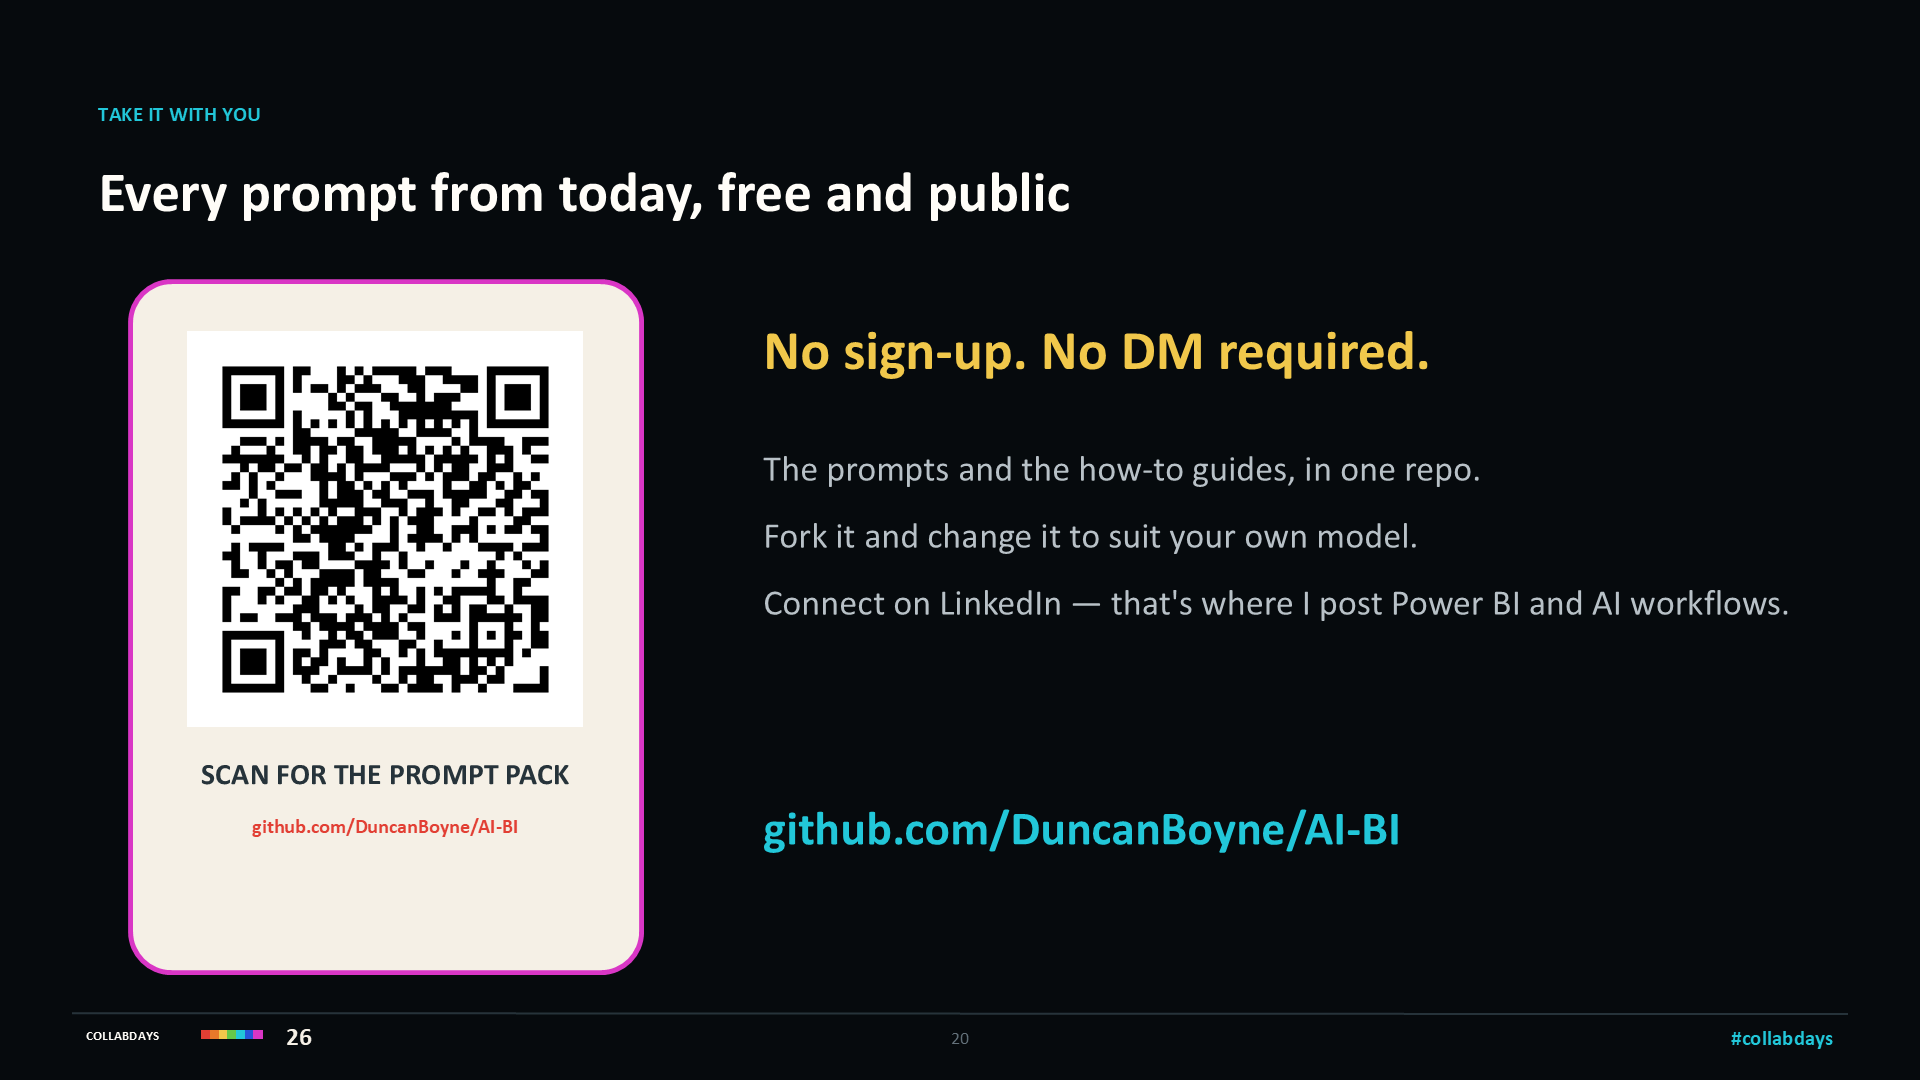
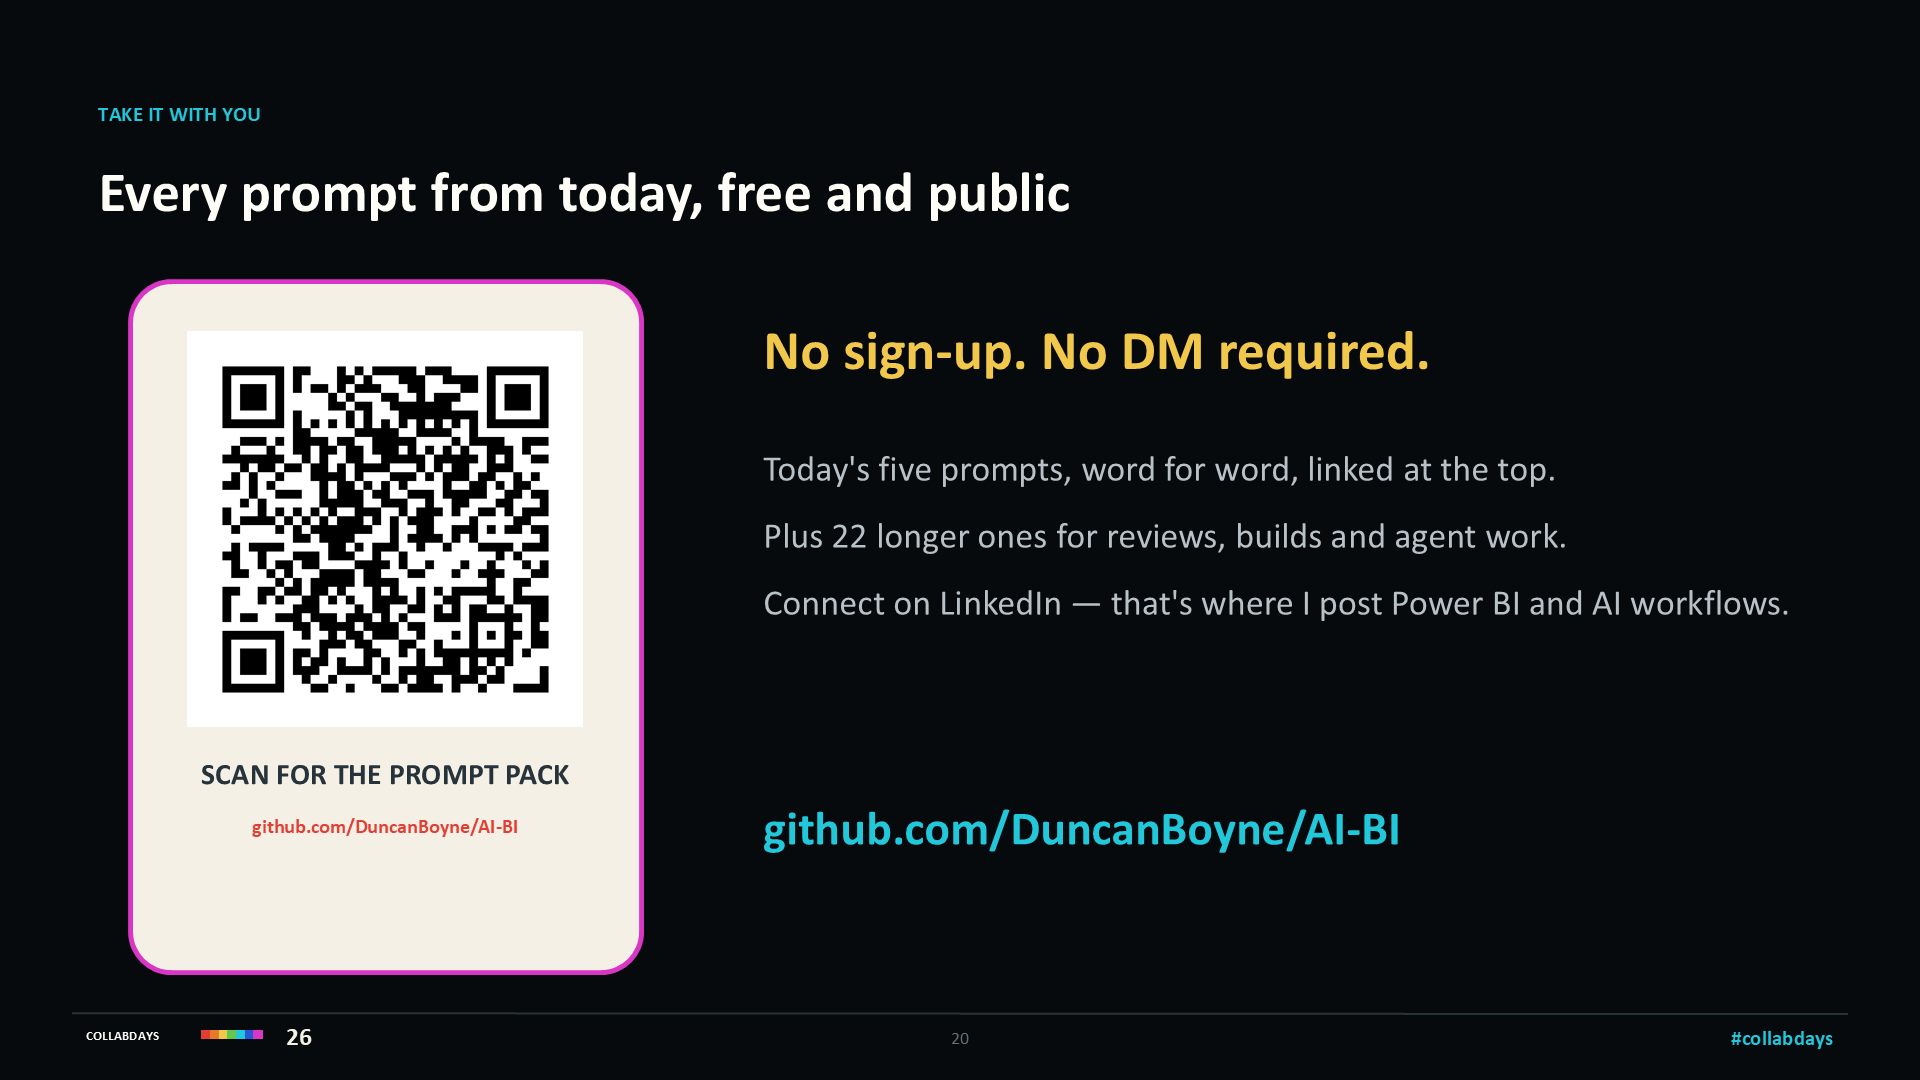
Point the CollabDays closing slide at the talk prompts in AI-BI
The slide promised every prompt from today; the five talk prompts now
live at the top of the AI-BI README, and the repo has 22 longer ones.

Changed region(s): [[0.4062, 0.4889, 0.8125, 0.5194], [0.4062, 0.4278, 0.8125, 0.4583]]

diff --git a/decks/collabdays-2026/slides.md b/decks/collabdays-2026/slides.md
@@ -134,7 +134,7 @@ Close the loop back to the reframe: none of it replaced judgement, all of it rem
 <!-- .slide: data-background-image="https://raw.githubusercontent.com/DuncanBoyne/speakingdecks/main/decks/collabdays-2026/slides/20.png" data-background-size="contain" data-background-color="#060A0D" -->
 
 Notes:
-Leave the QR up and say the repo name once. If you're running the follower deck on slides.mightora.io, push the link to every phone now too.
+Leave the QR up and say the repo name once. Today's five prompts are linked at the top of the README, with the example material from the demo. The 22 longer prompts go deeper, including four for when an AI agent edits your PBIP files directly. If you're running the follower deck on slides.mightora.io, push the link to every phone now too.
 
 ---
 
